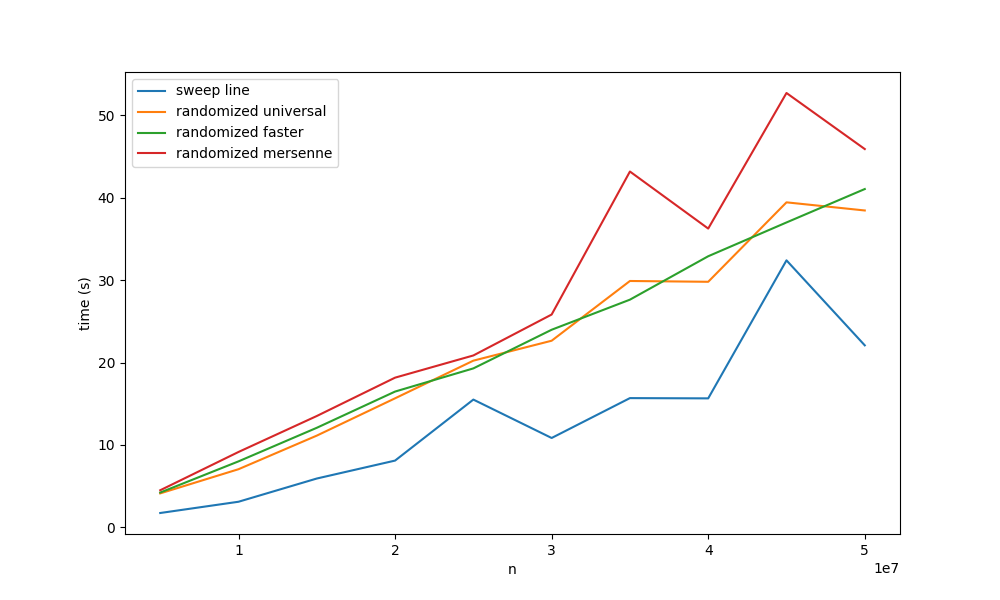
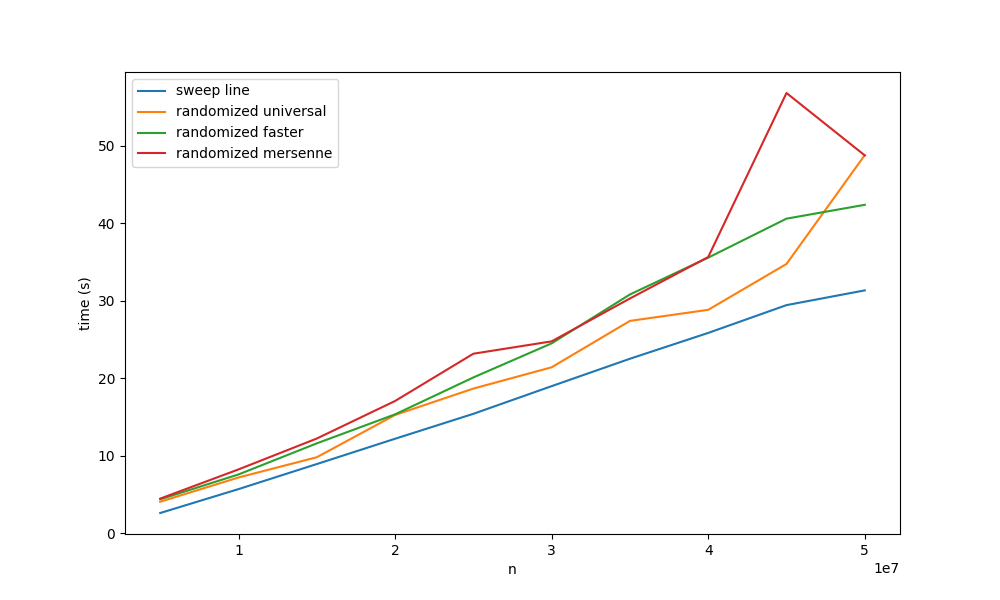
test: add results for exp2

diff --git a/pipeline_exp2.c b/pipeline_exp2.c
@@ -15,7 +15,7 @@
 
 // Amount of times the algorithm will be executed to calculate
 // the average performance
-#define NUMBER_REPS 5
+#define NUMBER_REPS 10
 
 double randomZeroToOne() {
     return (double)rand() / (RAND_MAX + 1.0);
